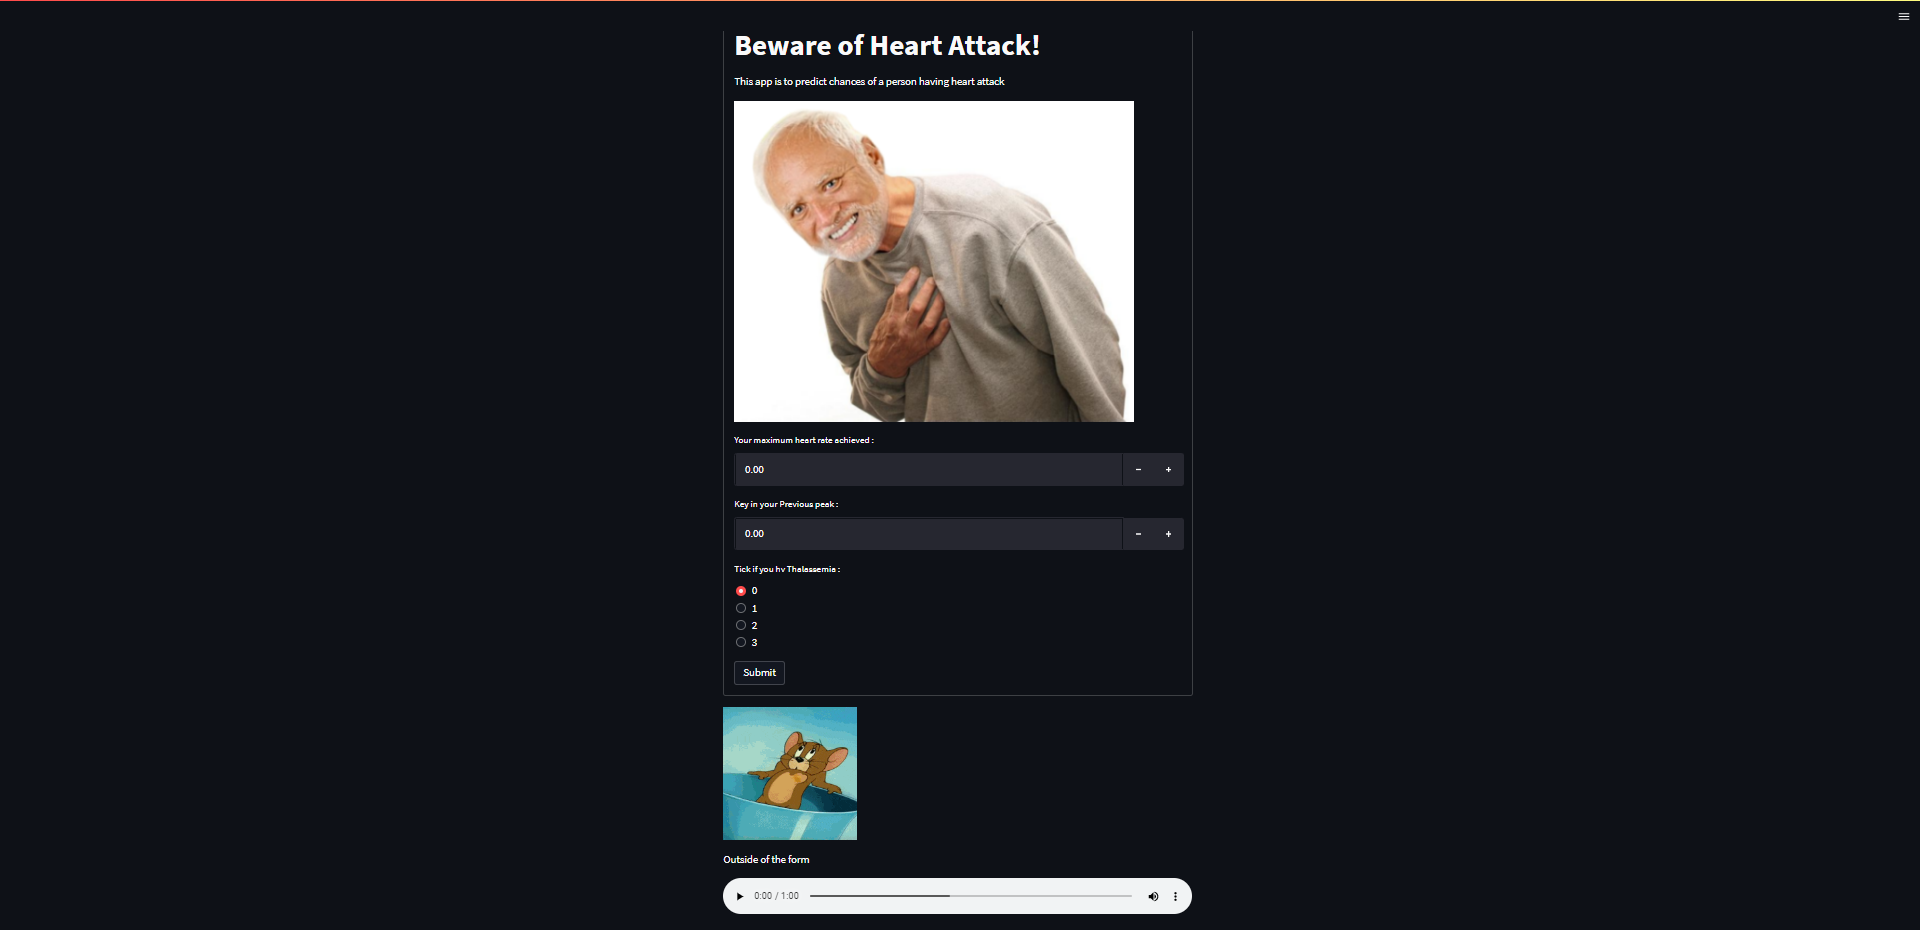
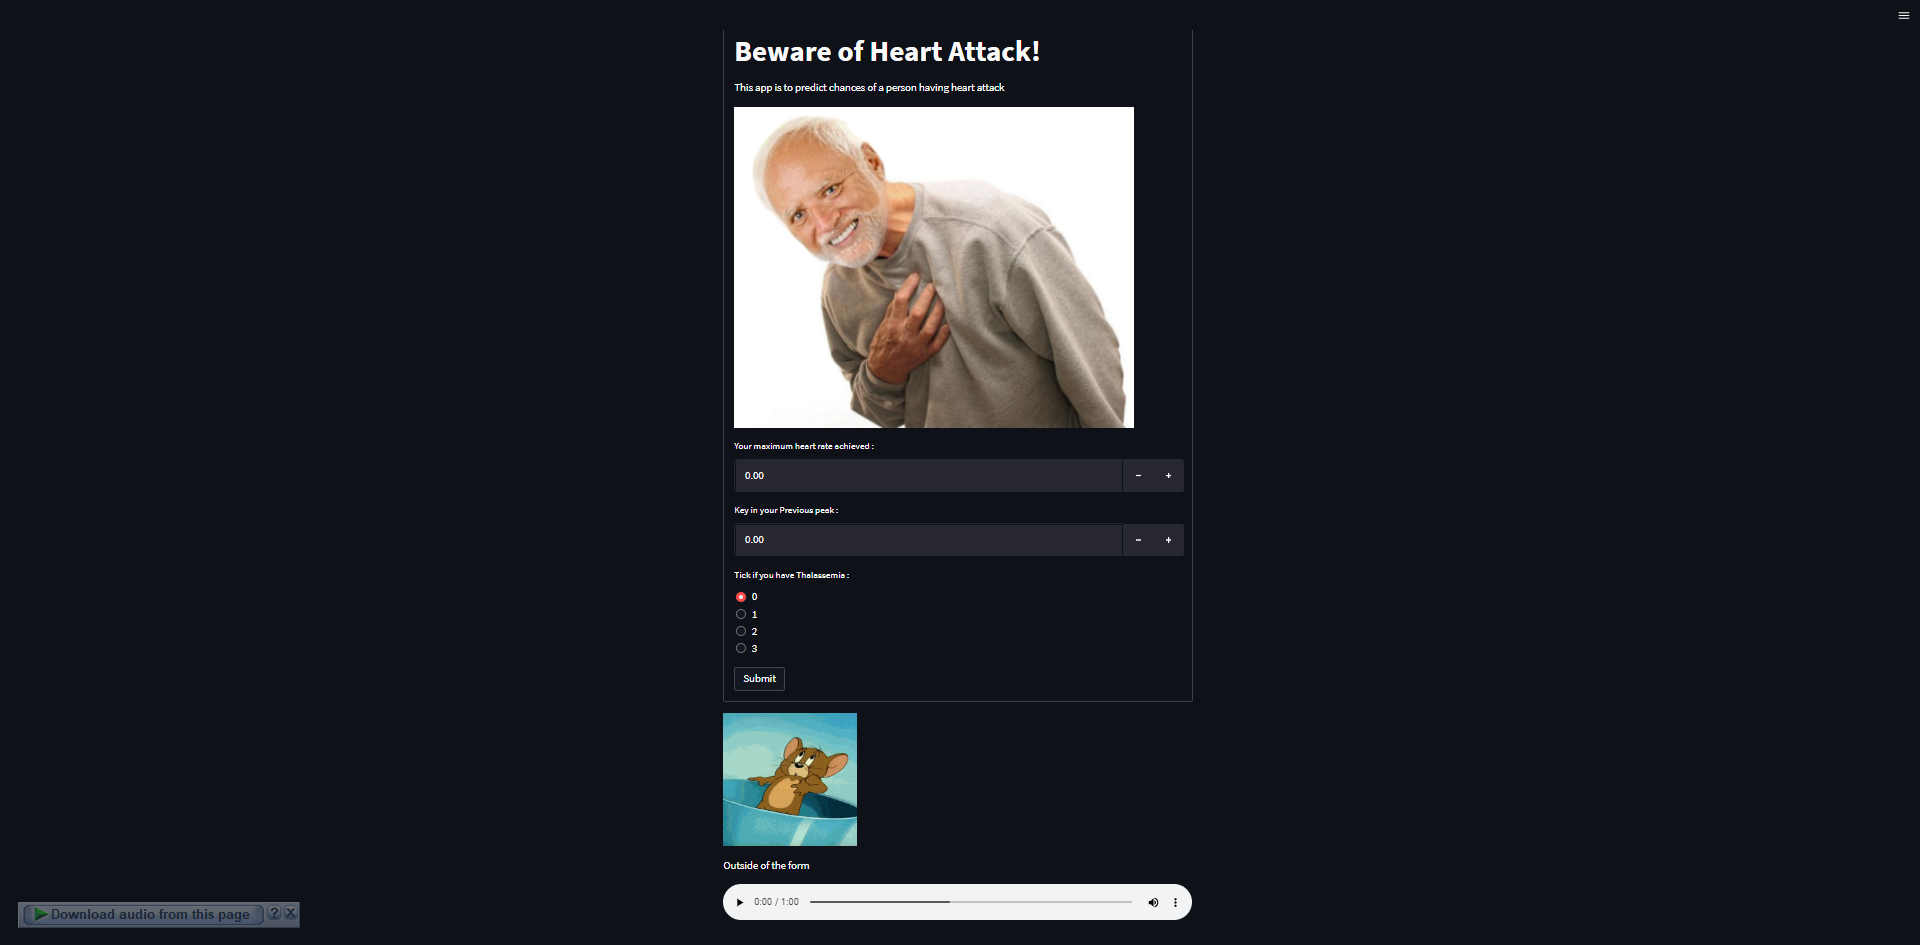
A

diff --git a/heart_ass_deploy.py b/heart_ass_deploy.py
@@ -24,7 +24,7 @@ with st.form("Patient's info"):
     
     thalach = int(st.number_input('Your maximum heart rate achieved : '))
     oldpeak = int(st.number_input('Key in your Previous peak : '))
-    thalassemia = int(st.radio(' Tick if  you hv Thalassemia : ',(0,1,2,3)))
+    thalassemia = int(st.radio(' Tick if  you have Thalassemia : ',(0,1,2,3)))
     
     submitted = st.form_submit_button("Submit")
     if submitted:
